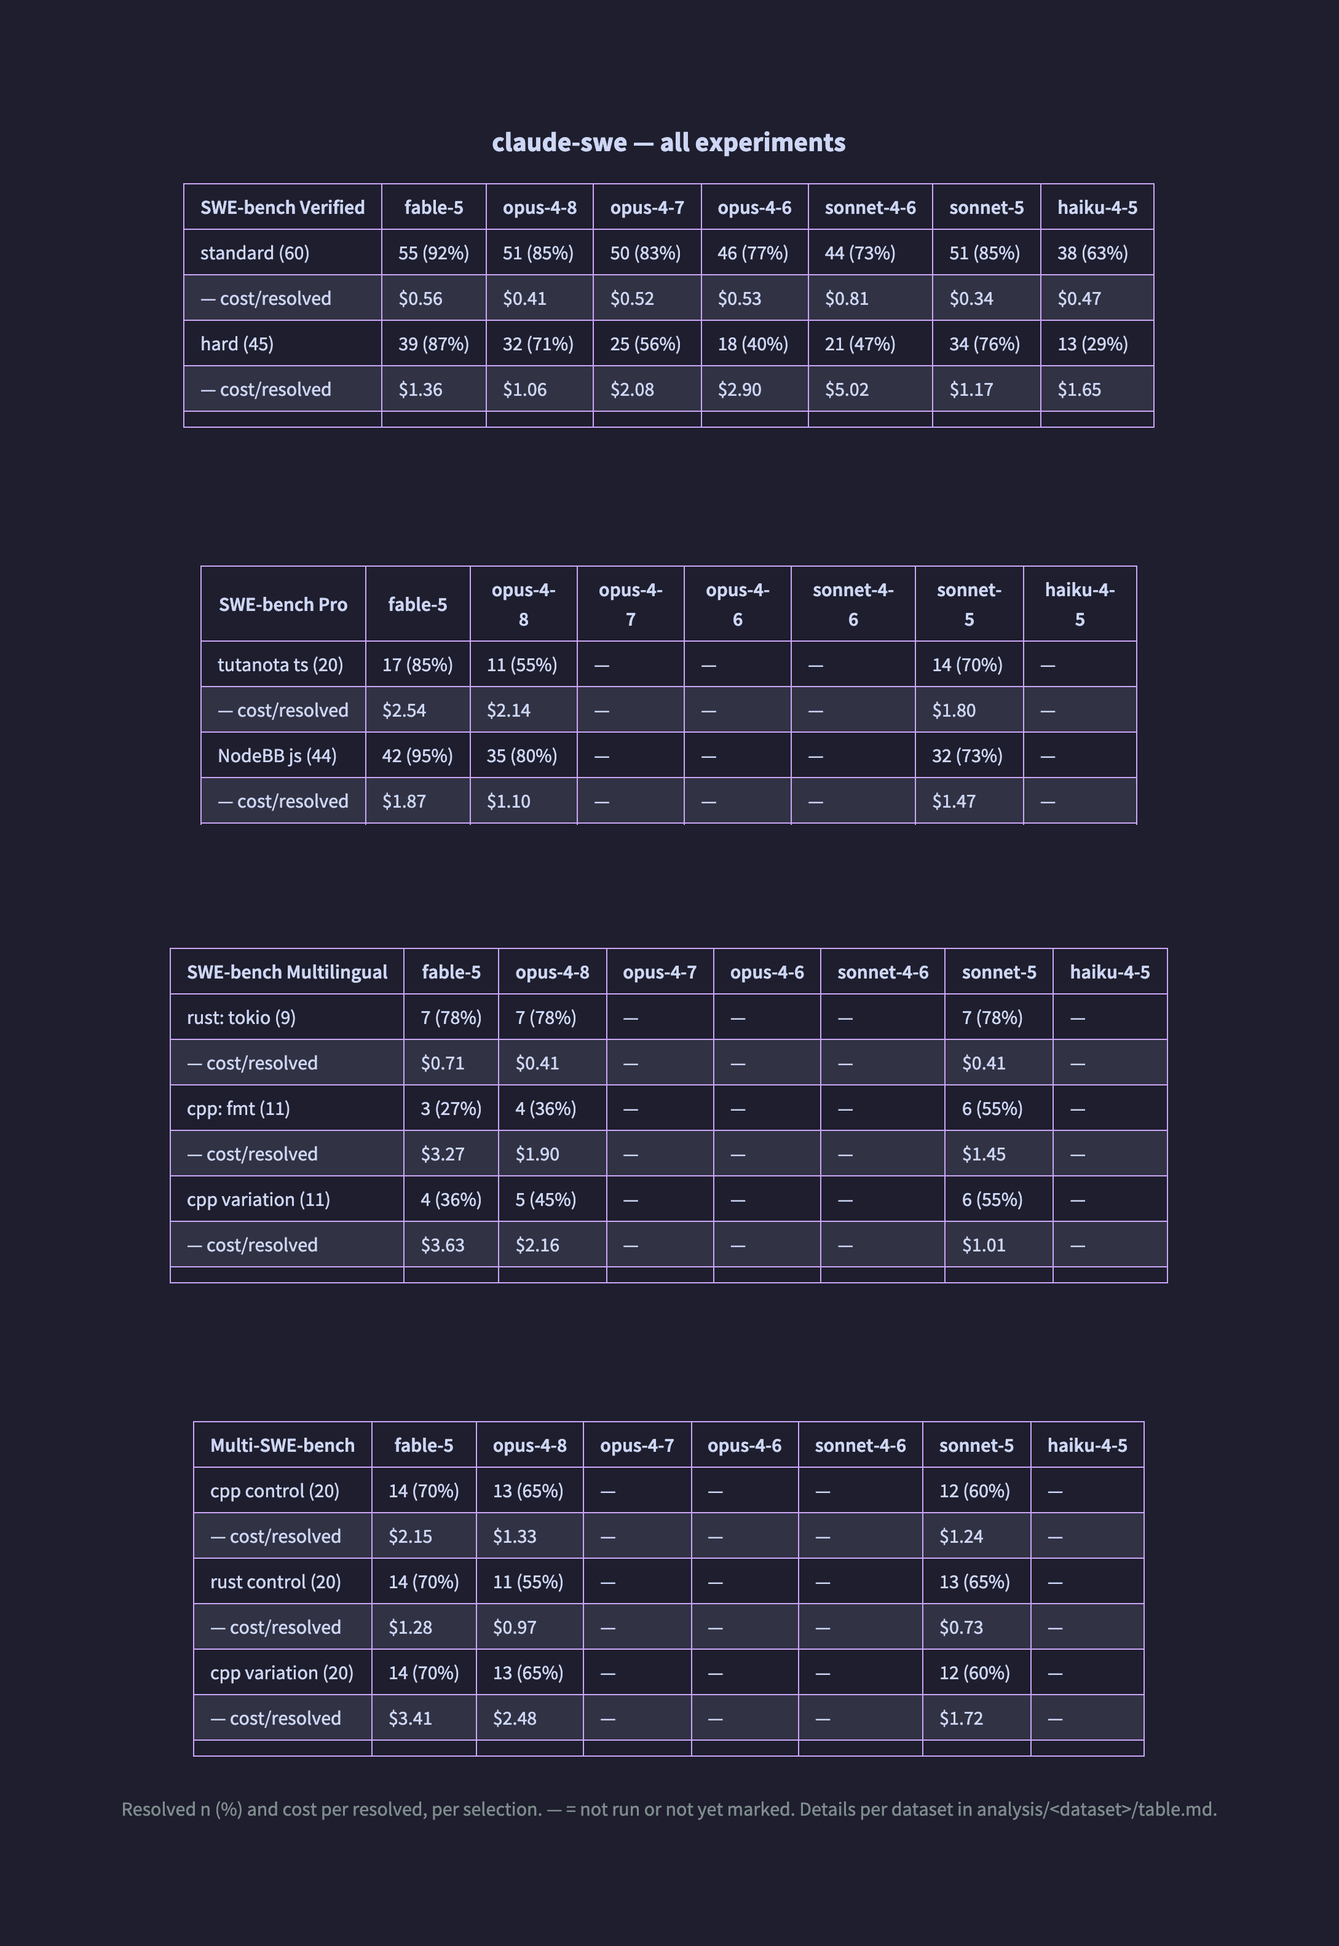
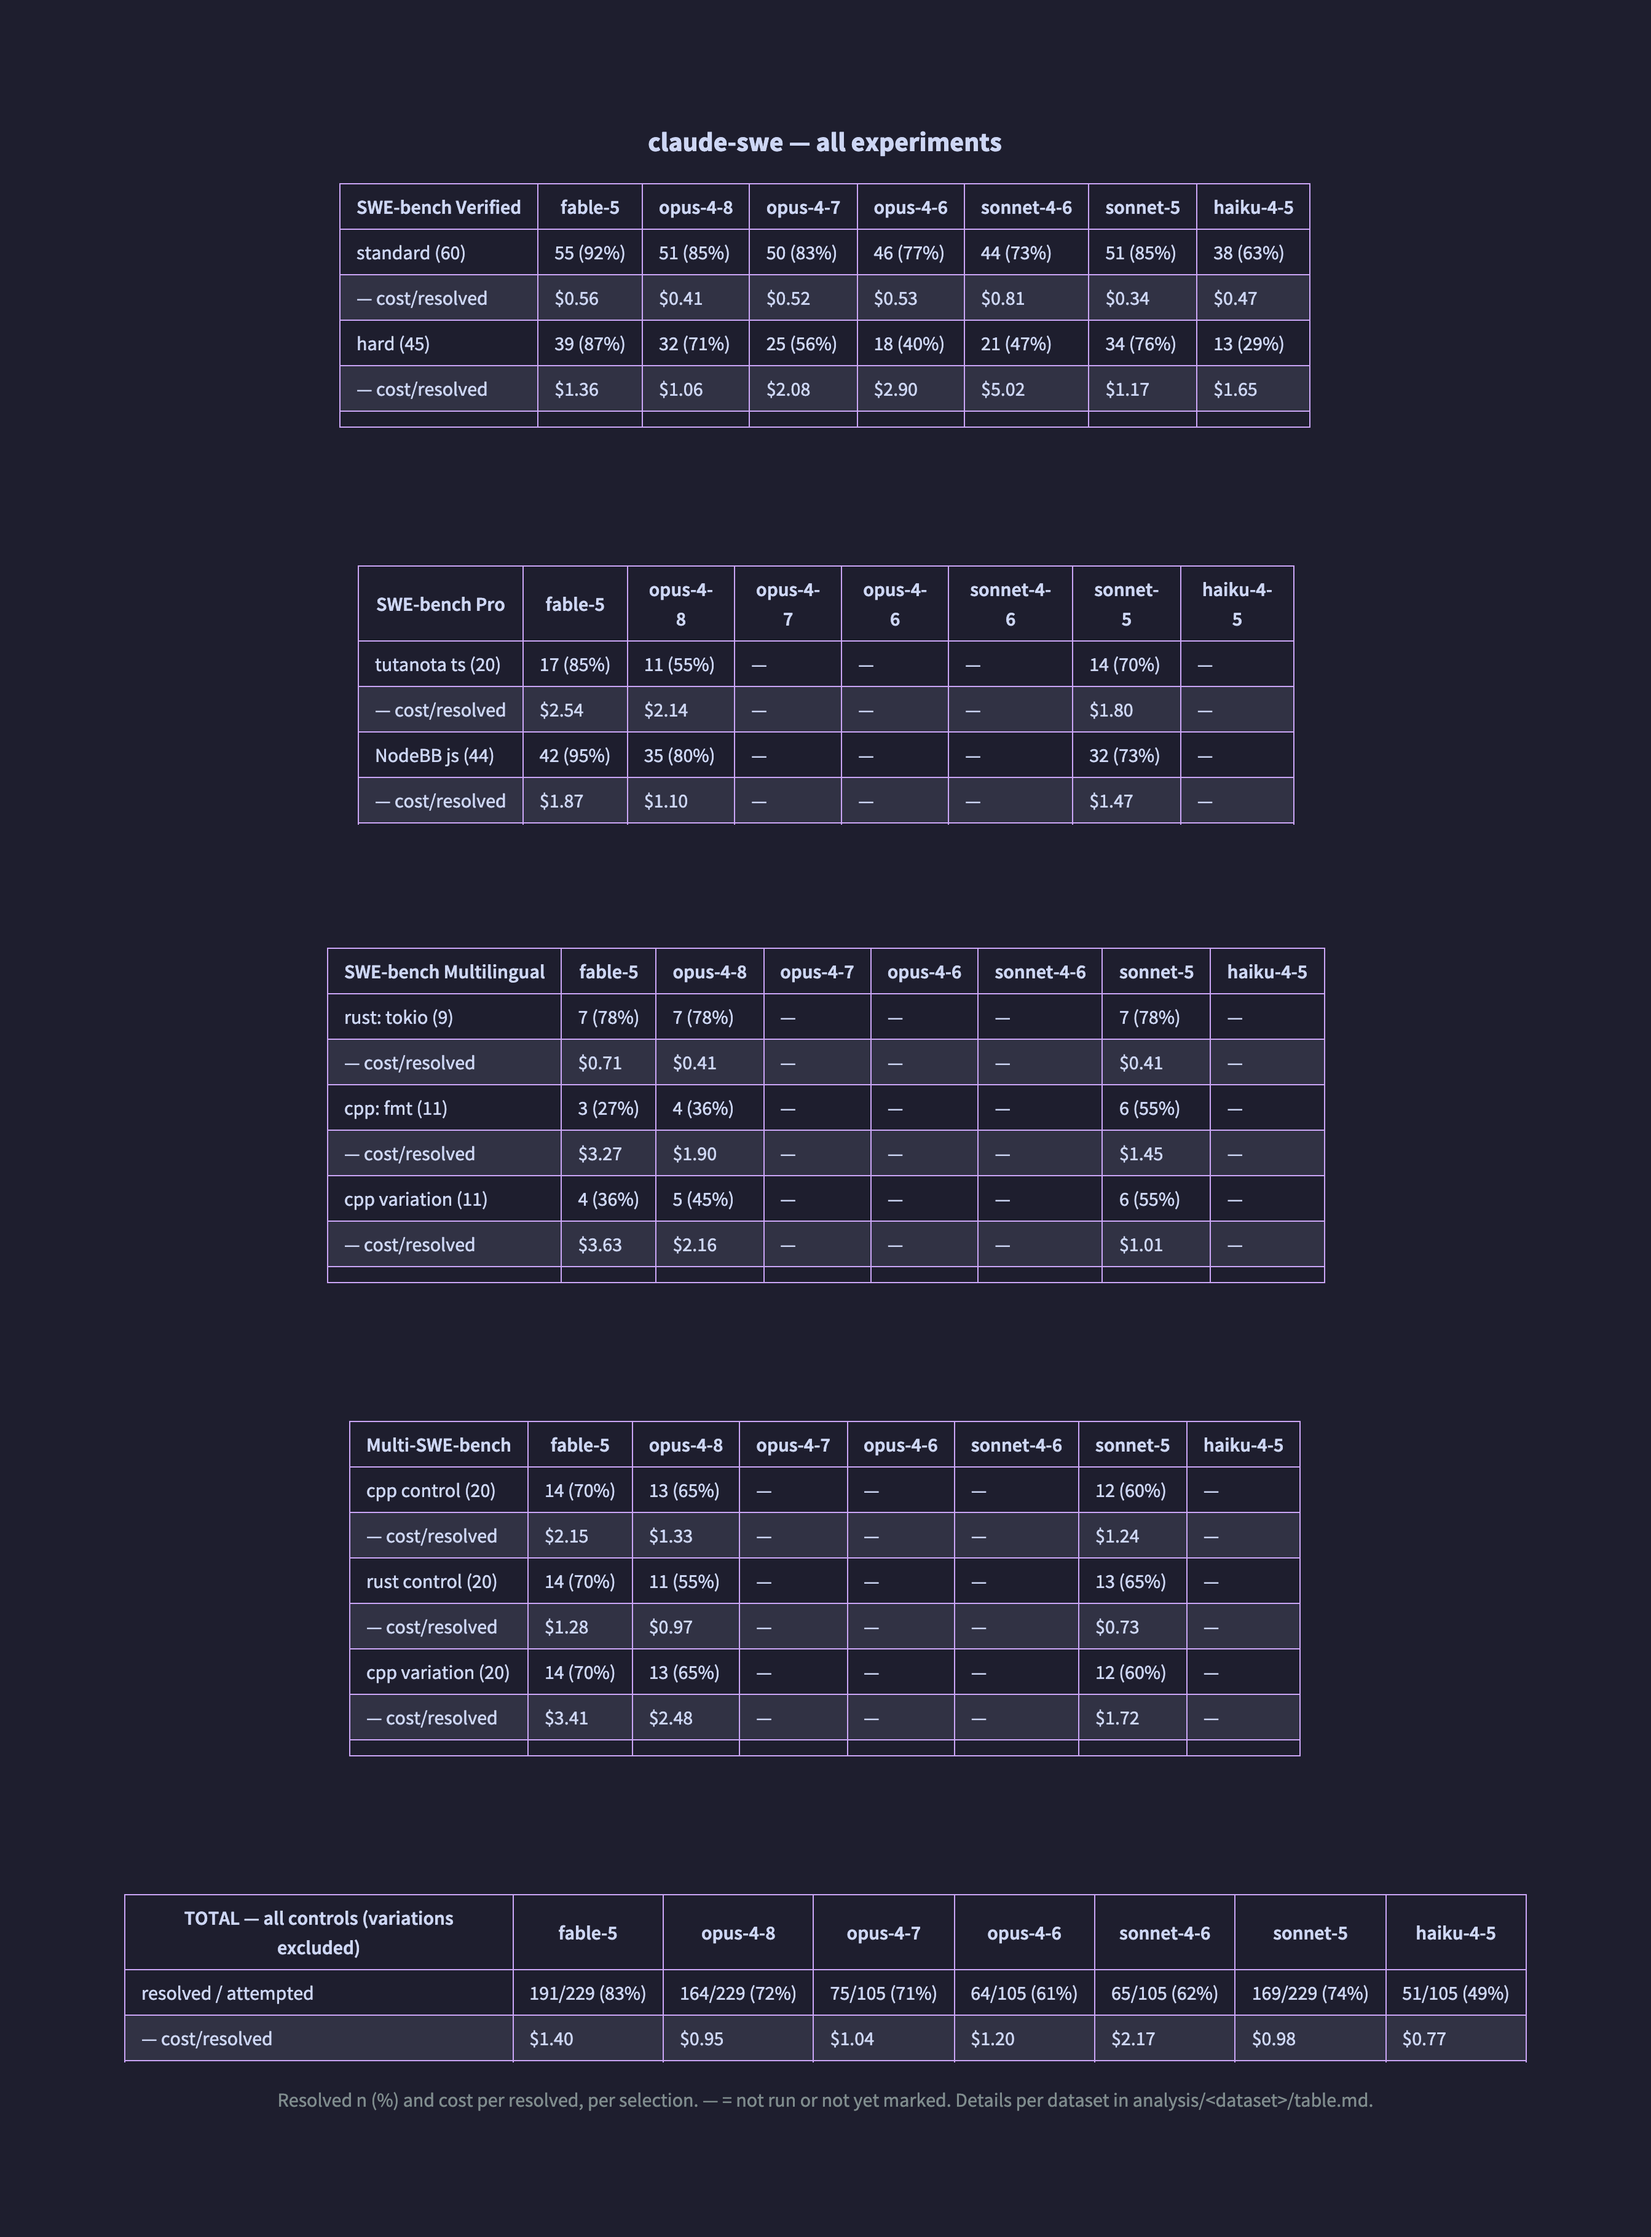
Add a total to the overview

Changed region(s): [[0.0937, 0.2476, 0.9054, 0.9596], [0.1561, 0.0619, 0.843, 0.2167], [0.7805, 0.2786, 0.8118, 0.3095]]

diff --git a/analysis/overview/table.html b/analysis/overview/table.html
@@ -27,4 +27,7 @@ th{background:#2a2a3f}td.sec{background:#2a2a3f;font-weight:bold}</style>
 <tr><td>— cost/resolved</td><td>$1.28</td><td>$0.97</td><td>—</td><td>—</td><td>—</td><td>$0.73</td><td>—</td></tr>
 <tr><td>cpp variation (20)</td><td>14 (70%)</td><td>13 (65%)</td><td>—</td><td>—</td><td>—</td><td>12 (60%)</td><td>—</td></tr>
 <tr><td>— cost/resolved</td><td>$3.41</td><td>$2.48</td><td>—</td><td>—</td><td>—</td><td>$1.72</td><td>—</td></tr>
+<tr><td class='sec' colspan='8'>TOTAL — all controls (variations excluded)</td></tr>
+<tr><td>resolved / attempted</td><td>191/229 (83%)</td><td>164/229 (72%)</td><td>75/105 (71%)</td><td>64/105 (61%)</td><td>65/105 (62%)</td><td>169/229 (74%)</td><td>51/105 (49%)</td></tr>
+<tr><td>— cost/resolved</td><td>$1.40</td><td>$0.95</td><td>$1.04</td><td>$1.20</td><td>$2.17</td><td>$0.98</td><td>$0.77</td></tr>
 </table><p>Resolved n (%) and cost per resolved, per selection. — = not run or not yet marked. Details per dataset in analysis/&lt;dataset&gt;/table.md.</p>

diff --git a/analyse-overview.py b/analyse-overview.py
@@ -86,6 +86,9 @@ COLUMNS = ["fable-5", "opus-4-8", "opus-4-7", "opus-4-6", "sonnet-4-6", "sonnet-
 
 sections = []
 seen = set()
+# per-column running totals over CONTROLS (variations revisit the same
+# instances and would double-count them)
+totals = {col: dict(resolved=0, instances=0, cost=0.0) for col in COLUMNS}
 for title, name, rows_fn in DATASETS:
     d = load(name)
     if d is None:
@@ -95,13 +98,31 @@ for title, name, rows_fn in DATASETS:
         res_cells = []
         cost_cells = []
         for col in COLUMNS:
-            res, cost = cellpair(per_model.get(col))
+            leg = per_model.get(col)
+            res, cost = cellpair(leg)
             res_cells.append(res)
             cost_cells.append(cost)
-            if per_model.get(col) is not None:
+            if leg is not None:
                 seen.add(col)
+                if "variation" not in label and leg.get("resolved") is not None and leg.get("instances"):
+                    t = totals[col]
+                    t["resolved"] += leg["resolved"]
+                    t["instances"] += leg["instances"]
+                    t["cost"] += leg.get("cost") or 0
         body.append((label, res_cells, cost_cells))
     sections.append((title, body))
+
+total_res = []
+total_cost = []
+for col in COLUMNS:
+    t = totals[col]
+    if t["instances"]:
+        total_res.append(f"{t['resolved']}/{t['instances']}\u00a0({t['resolved'] / t['instances'] * 100:.0f}%)")
+        total_cost.append(f"${t['cost'] / t['resolved']:.2f}" if t["resolved"] else "—")
+    else:
+        total_res.append("—")
+        total_cost.append("—")
+sections.append(("TOTAL — all controls (variations excluded)", [("resolved / attempted", total_res, total_cost)]))
 
 # Drop columns no dataset ever populated.
 keep = [i for i, c in enumerate(COLUMNS) if c in seen]

diff --git a/analysis/overview/table.md b/analysis/overview/table.md
@@ -24,5 +24,8 @@
 | — cost/resolved | $1.28 | $0.97 | — | — | — | $0.73 | — |
 | cpp variation (20) | 14 (70%) | 13 (65%) | — | — | — | 12 (60%) | — |
 | — cost/resolved | $3.41 | $2.48 | — | — | — | $1.72 | — |
+| **TOTAL — all controls (variations excluded)** | | | | | | | |
+| resolved / attempted | 191/229 (83%) | 164/229 (72%) | 75/105 (71%) | 64/105 (61%) | 65/105 (62%) | 169/229 (74%) | 51/105 (49%) |
+| — cost/resolved | $1.40 | $0.95 | $1.04 | $1.20 | $2.17 | $0.98 | $0.77 |
 
 Resolved n (%) and cost per resolved, per selection. — = not run or not yet marked. Details per dataset in analysis/<dataset>/table.md.
